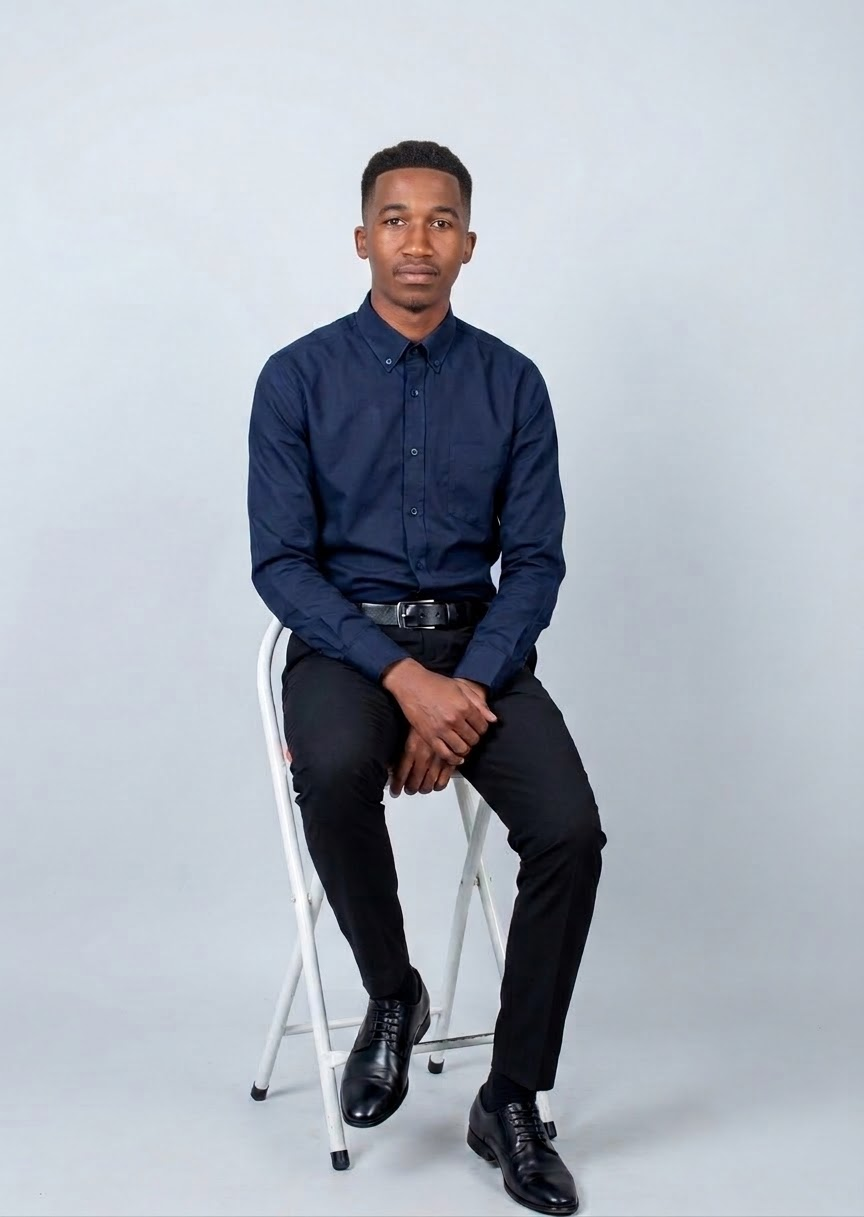
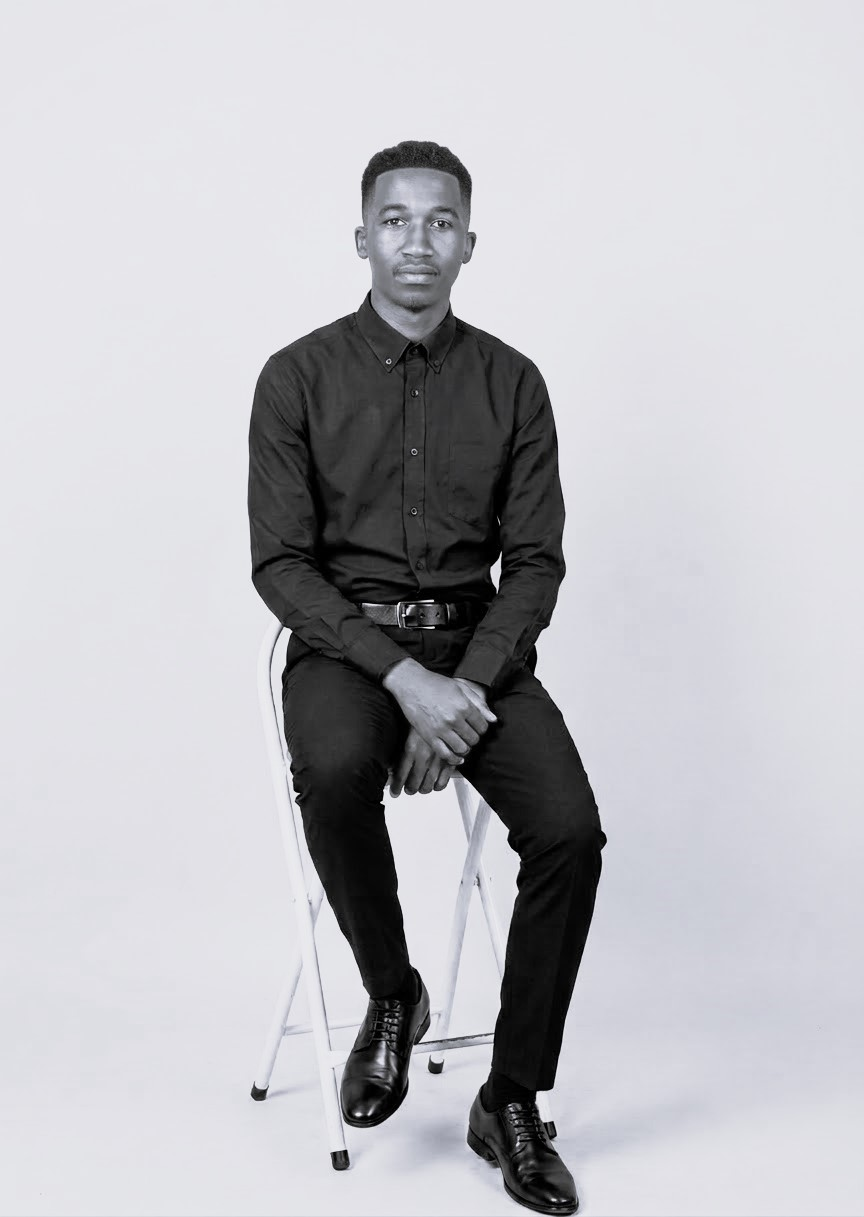
Updated public assets

diff --git a/src/components/Footer.jsx b/src/components/Footer.jsx
@@ -11,9 +11,6 @@ export default function Footer() {
           <a href="#" className="hover:text-white transition-colors p-2">
             <Linkedin size={24} />
           </a>
-          <a href="#" className="hover:text-white transition-colors p-2">
-            <Twitter size={24} />
-          </a>
         </div>
         <p className="text-lg font-medium mb-2 text-gray-400 transition-colors cursor-default">
           Designed & Built by Mwansa Kunda

diff --git a/src/components/Header.jsx b/src/components/Header.jsx
@@ -130,9 +130,6 @@ export default function Header() {
             <a href="#" className="hover:text-blue-600 transition-colors">
               <Linkedin size={20} />
             </a>
-            <a href="#" className="hover:text-blue-600 transition-colors">
-              <Twitter size={20} />
-            </a>
           </div>
         </motion.div>
       )}
